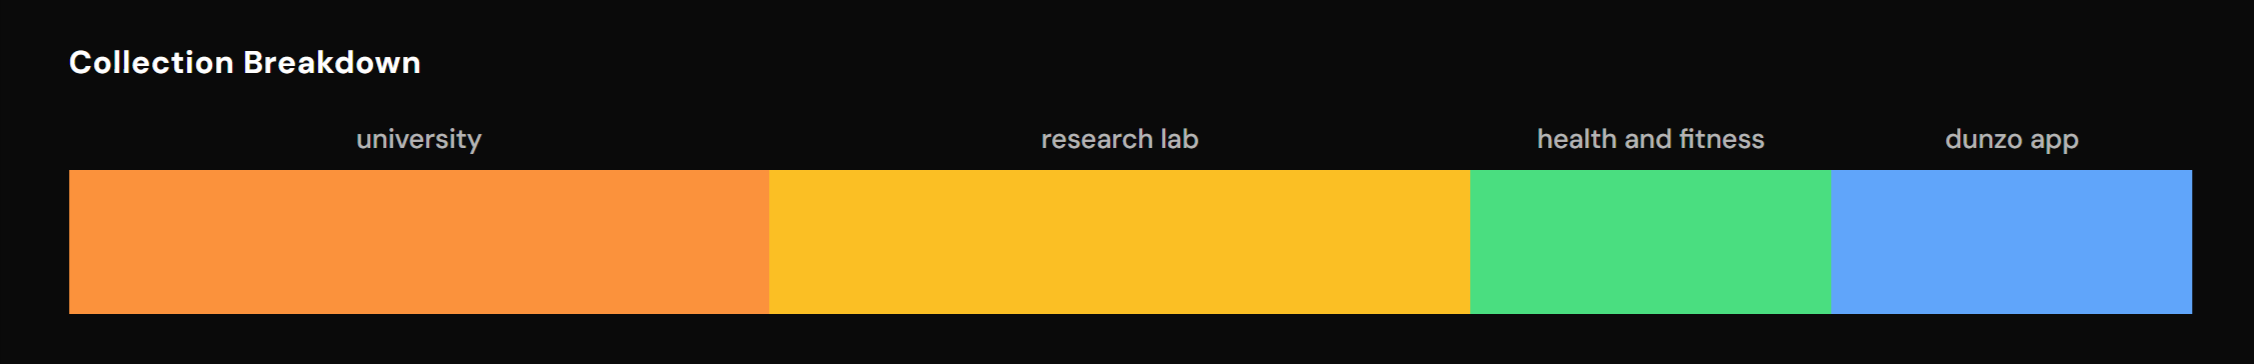
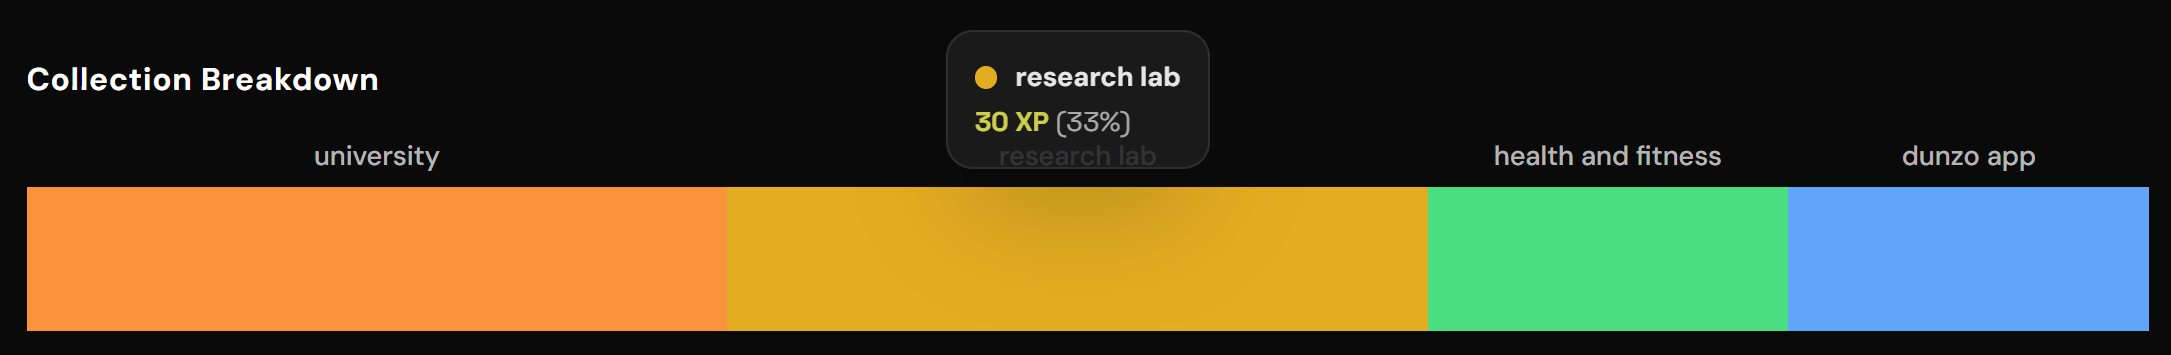
Update screenshot

diff --git a/README.md b/README.md
@@ -15,7 +15,7 @@ A full-stack productivity app that combines a **Notion-style task planner**, a f
 [![Postgres](https://img.shields.io/badge/Neon_Postgres-008000?logo=postgresql&logoColor=white&style=for-the-badge)](https://neon.tech)
 [![Tailwind](https://img.shields.io/badge/Tailwind_v4-06B6D4?logo=tailwindcss&logoColor=white&style=for-the-badge)](https://tailwindcss.com)
 
-**[✨ Go to App](https://dunzo-todo.vercel.app/)** · **[Features](#-features)** · **[Screenshots](#-screenshots)** · **[Technical](#technical)**
+**[🔗 Go to App](https://dunzo-todo.vercel.app/)** · **[Features](#-features)** · **[Screenshots](#-screenshots)** · **[Technical](#technical)**
 
 </div>
 
@@ -178,7 +178,6 @@ Have a `.env` in the project root.
 | Variable | Description |
 | --- | --- |
 | `VITE_NEON_AUTH_URL` | Neon Auth base URL (used by the auth client). |
-| `VITE_NEON_DATA_API_URL` | Neon Data API URL (used for auth only). |
 
 **Server** (never sent to the browser):
 